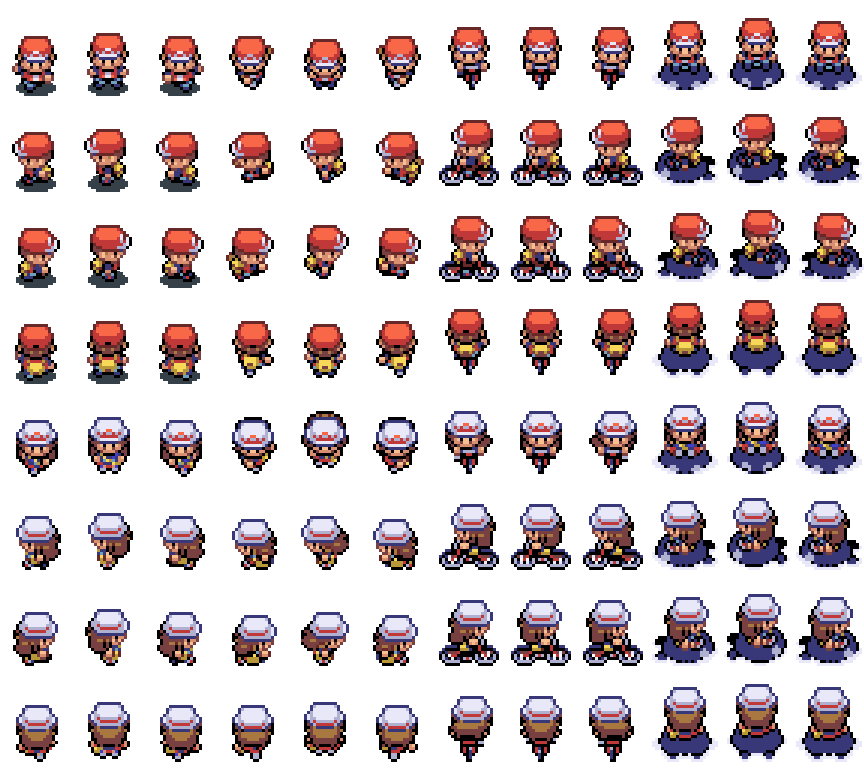
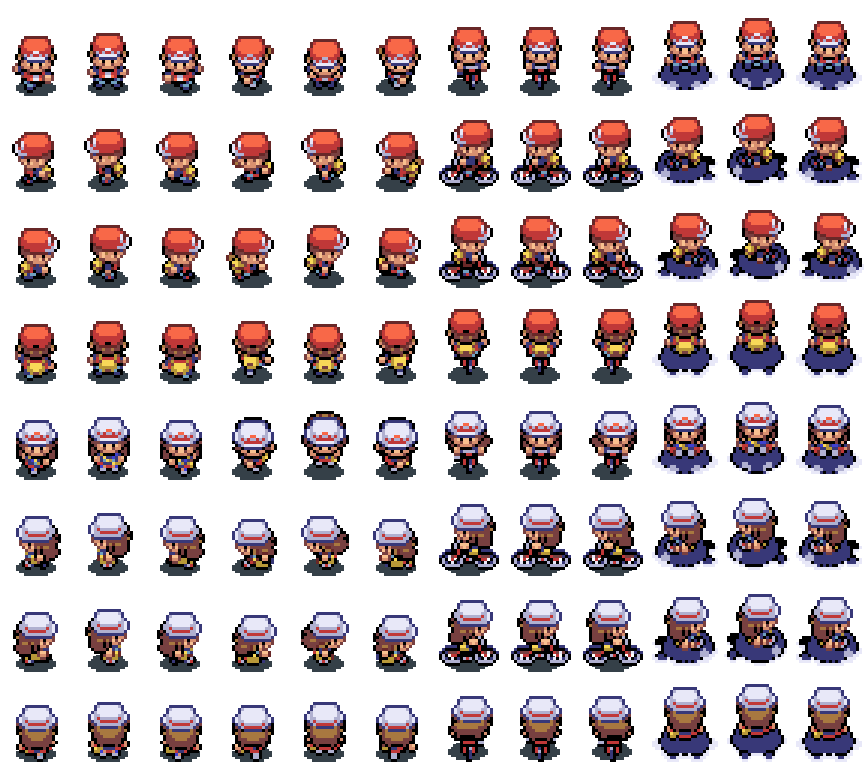
add shadow to sprite, edit volume

diff --git a/client/src/scenes/OnlinePlayer.js b/client/src/scenes/OnlinePlayer.js
@@ -5,7 +5,7 @@ export default class OnlinePlayer extends GameObjects.Sprite {
   constructor(config) {
     super(config.scene, config.x, config.y, config.playerId, config.texture);
     this.sprites = this.scene.add.sprite(0, 0, "onlinePlayer");
-    this.sprites.scale = 1.15;
+    this.sprites.scale = 1.13;
     this.sessionId = config.sessionId;
     this.scene.add.existing(this);
     this.scene.physics.world.enableBody(this);

diff --git a/client/src/scenes/Player.js b/client/src/scenes/Player.js
@@ -19,7 +19,7 @@ export default class Player extends GameObjects.Sprite {
     this.scene.add.existing(this);
     this.scene.physics.world.enableBody(this);
     this.setOrigin(0.5, 0.5);
-    this.scale = 1.15;
+    this.scale = 1.13;
     this.scene.cameras.main.startFollow(this, true);
     this.scene.cameras.main.setZoom(1);
     this.tileMap = config.tileMap;

diff --git a/client/src/Scenes/GridEngineConfig.js b/client/src/Scenes/GridEngineConfig.js
@@ -16,7 +16,7 @@ export class GridEngineCreate {
   //*************** ADD NPC *****************//
   addNpc(npc) {
     const newSprite = this.add.sprite(0, 0, "npc");
-    newSprite.scale = 1.15;
+    newSprite.scale = 1.13;
     this.gridEngine.addCharacter({
       id: npc.id,
       sprite: newSprite,
